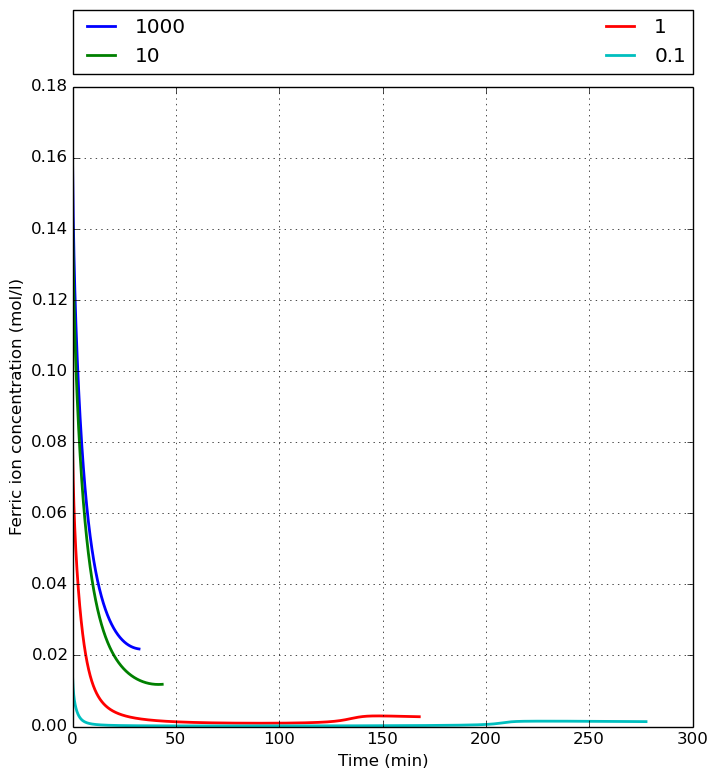
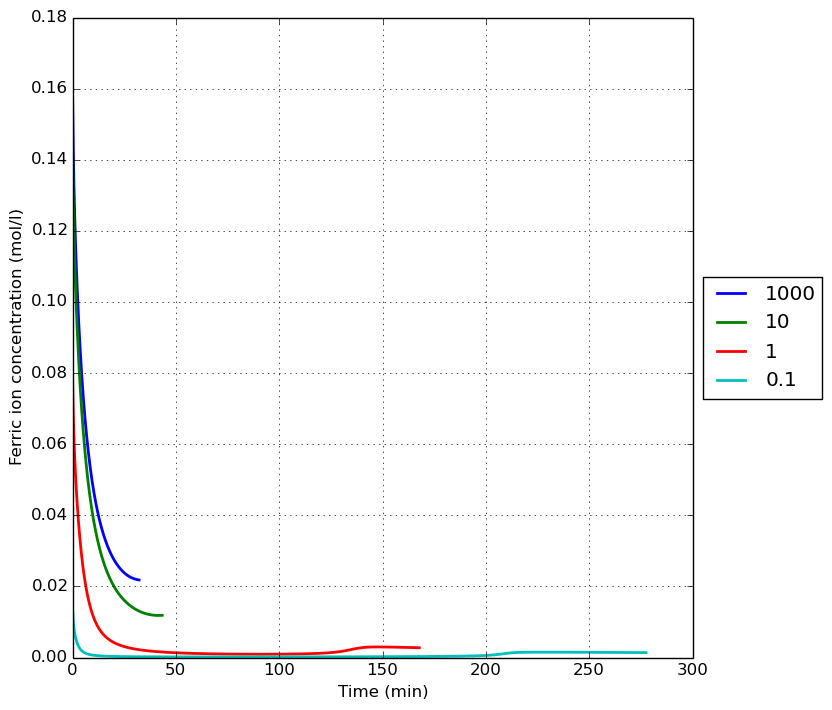
replotted

Changed region(s): [[0.0, 0.0, 1.0, 0.9915]]

diff --git a/masters/calculations/management/commands/sensitivity_analysis.py b/masters/calculations/management/commands/sensitivity_analysis.py
@@ -177,7 +177,8 @@ class Command(BaseCommand):
         for i, item in enumerate(analysis_list):
             line, = fig_subplot.plot(ferric_biox[item[1]]["time"], ferric_biox[item[1]]["ferric"], label=item[1])
             line.set_linewidth(2)
-        plt.legend(ncol=2, mode="expand", loc=3, borderaxespad=0., bbox_to_anchor=(0., 1.02, 1., .102))
+        # plt.legend(ncol=2, mode="expand", loc=3, borderaxespad=0., bbox_to_anchor=(0., 1.02, 1., .102))
+        plt.legend(loc='center left', bbox_to_anchor=(1, 0.5))
         fig.savefig('simulation_figures/'+self.simulate+'/ferric_ion_concentration_biooxidation_reactor.png',
                 bbox_inches='tight')
 
@@ -192,7 +193,8 @@ class Command(BaseCommand):
         for i, item in enumerate(analysis_list):
             line, = fig_subplot.plot(ferric_biox[item[1]]["time"], ferric_biox[item[1]]["biomass"], label=item[1])
             line.set_linewidth(2)
-        plt.legend(ncol=2, mode="expand", loc=3, borderaxespad=0., bbox_to_anchor=(0., 1.02, 1., .102))
+        # plt.legend(ncol=2, mode="expand", loc=3, borderaxespad=0., bbox_to_anchor=(0., 1.02, 1., .102))
+        plt.legend(loc='center left', bbox_to_anchor=(1, 0.5))
         fig.savefig('simulation_figures/'+self.simulate+'/biomass_concentration_biooxidation_reactor.png',
                 bbox_inches='tight')
 
@@ -207,7 +209,8 @@ class Command(BaseCommand):
         for i, item in enumerate(analysis_list):
             line, = fig_subplot.plot(ferric_chem[item[1]]["time"], ferric_chem[item[1]]["ferric"], label=item[1])
             line.set_linewidth(2)
-        plt.legend(ncol=2, mode="expand", loc=3, borderaxespad=0., bbox_to_anchor=(0., 1.02, 1., .102))
+        # plt.legend(ncol=2, mode="expand", loc=3, borderaxespad=0., bbox_to_anchor=(0., 1.02, 1., .102))
+        plt.legend(loc='center left', bbox_to_anchor=(1, 0.5))
         fig.savefig('simulation_figures/'+self.simulate+'/ferric_ion_concentration_chemical_reactor.png',
                     bbox_inches='tight')
 
@@ -221,7 +224,8 @@ class Command(BaseCommand):
         for i, item in enumerate(analysis_list):
             line, = fig_subplot.plot(metals_chem[item[1]]["time"], metals_chem[item[1]]["Cu2+"], label=item[1])
             line.set_linewidth(2)
-        plt.legend(ncol=2, mode="expand", loc='lower left', borderaxespad=0., bbox_to_anchor=(0., 1.02, 1., .102))
+        # plt.legend(ncol=2, mode="expand", loc='lower left', borderaxespad=0., bbox_to_anchor=(0., 1.02, 1., .102))
+        plt.legend(loc='center left', bbox_to_anchor=(1, 0.5))
         fig.savefig('simulation_figures/'+self.simulate+'/cupric_ion_concentration_chemical_reactor.png',
                     bbox_inches='tight')
 
